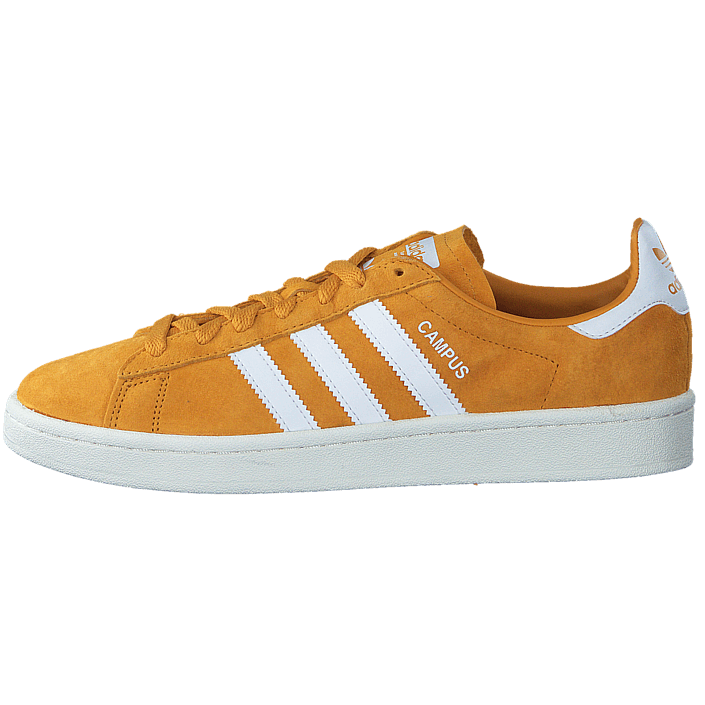
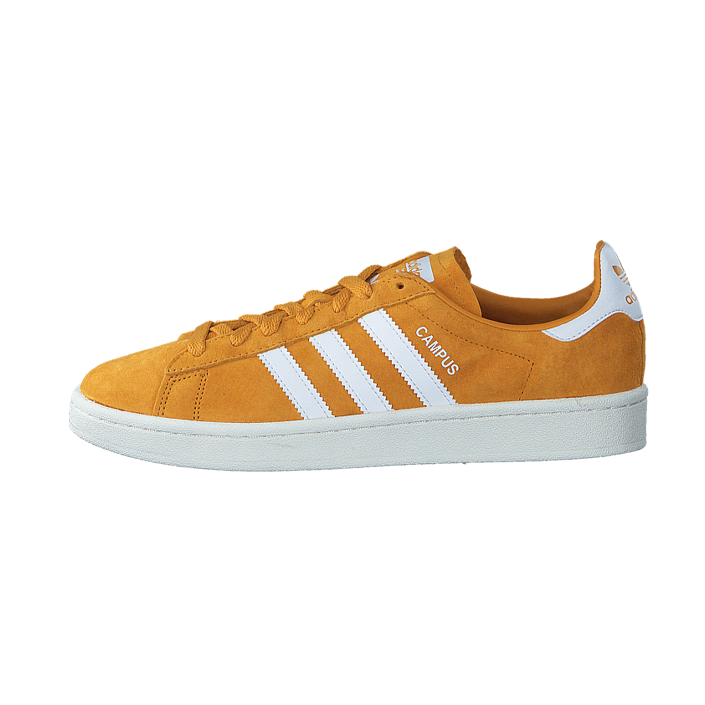
modal window

Changed region(s): [[0.0, 0.3121, 0.9986, 0.7177]]

diff --git a/index.html b/index.html
@@ -53,6 +53,7 @@
                                     move, laces that you’ll never need to tie again, and an odor-fighting copper thread
                                     lining.
                                 </p>
+
                                 <div class="main__page-buttons">
                                     <button class="main__page-button">
                                         <img src="img/bag.svg" alt="bag" class="main__page-button-img">Add To Cart
@@ -60,9 +61,12 @@
                                     <button id="myBtn" href="#" class="main__page-button">
                                         <img src="img/play.svg" alt="play" class="main__page-button-img">Watch
                                         Intro</button>
-                                    <div id="myModal" class="modal">
+
+
+
+                                    <div id="myModal" class="modal" data-modal="1">
                                         <div class="modal-content">
-                                            <span class="close">&times;</span>
+                                            <span id="close" class="close">&times;</span>
                                             <iframe width="860" height="515"
                                                 src="https://www.youtube.com/embed/geFi-ZpN2ZM"
                                                 title="YouTube video player" frameborder="0"
@@ -71,6 +75,7 @@
                                         </div>
                                     </div>
                                 </div>
+
                             </div>
                             <div id="main__page-swiper-item"><img src="img//sneaker1.png" alt="sneaker"></div>
                             <div class="main__page-content">
@@ -80,16 +85,17 @@
                                     move, laces that you’ll never need to tie again, and an odor-fighting copper thread
                                     lining.
                                 </p>
+
                                 <div class="main__page-buttons">
                                     <button class="main__page-button">
                                         <img src="img/bag.svg" alt="bag" class="main__page-button-img">Add To Cart
                                     </button>
-                                    <button id="myBtn" href="#" class="main__page-button">
+                                    <button id="myBtn2" href="#" class="main__page-button">
                                         <img src="img/play.svg" alt="play" class="main__page-button-img">Watch
                                         Intro</button>
-                                    <div id="myModal" class="modal">
+                                    <div id="myModal2" class="modal" data-modal="2">
                                         <div class="modal-content">
-                                            <span class="close">&times;</span>
+                                            <span id="close" class="close2">&times;</span>
                                             <iframe width="860" height="515"
                                                 src="https://www.youtube.com/embed/geFi-ZpN2ZM"
                                                 title="YouTube video player" frameborder="0"
@@ -98,8 +104,10 @@
                                         </div>
                                     </div>
                                 </div>
+
                             </div>
                             <div id="main__page-swiper-item"><img src="img/campus.png" alt="sneaker"></div>
+
                             <div class="main__page-content">
                                 <p class="main__page-description">The best looks; Top Comfort</p>
                                 <h1 class="main__page-title">Comfy Maxer</h1>
@@ -107,16 +115,17 @@
                                     move, laces that you’ll never need to tie again, and an odor-fighting copper thread
                                     lining.
                                 </p>
+
                                 <div class="main__page-buttons">
                                     <button class="main__page-button">
                                         <img src="img/bag.svg" alt="bag" class="main__page-button-img">Add To Cart
                                     </button>
-                                    <button id="myBtn" href="#" class="main__page-button">
+                                    <button id="myBtn3" href="#" class="main__page-button">
                                         <img src="img/play.svg" alt="play" class="main__page-button-img">Watch
                                         Intro</button>
-                                    <div id="myModal" class="modal">
+                                    <div id="myModal3" class="modal" data-modal="3">
                                         <div class="modal-content">
-                                            <span class="close">&times;</span>
+                                            <span id="close" class="close3">&times;</span>
                                             <iframe width="860" height="515"
                                                 src="https://www.youtube.com/embed/geFi-ZpN2ZM"
                                                 title="YouTube video player" frameborder="0"
@@ -125,8 +134,10 @@
                                         </div>
                                     </div>
                                 </div>
+
                             </div>
                             <div id="main__page-swiper-item"><img src="img/blue.png" alt="sneaker"></div>
+
                             <div class="main__page-content">
                                 <p class="main__page-description">The best looks; Top Comfort</p>
                                 <h1 class="main__page-title">Comfy Maxer</h1>
@@ -134,16 +145,17 @@
                                     move, laces that you’ll never need to tie again, and an odor-fighting copper thread
                                     lining.
                                 </p>
+
                                 <div class="main__page-buttons">
                                     <button class="main__page-button">
                                         <img src="img/bag.svg" alt="bag" class="main__page-button-img">Add To Cart
                                     </button>
-                                    <button id="myBtn" href="#" class="main__page-button">
+                                    <button id="myBtn4" href="#" class="main__page-button">
                                         <img src="img/play.svg" alt="play" class="main__page-button-img">Watch
                                         Intro</button>
-                                    <div id="myModal" class="modal">
+                                    <div id="myModal4" class="modal" data-modal="4">
                                         <div class="modal-content">
-                                            <span class="close">&times;</span>
+                                            <span id="close" class="close4">&times;</span>
                                             <iframe width="860" height="515"
                                                 src="https://www.youtube.com/embed/geFi-ZpN2ZM"
                                                 title="YouTube video player" frameborder="0"

diff --git a/style.css b/style.css
@@ -132,7 +132,7 @@ body {
   border-right: 1px solid #e9e9e9;
   height: 126%;
   position: absolute;
-  right: 15%;
+  right: 17%;
 }
 .main__page::after {
   content: "";
@@ -215,7 +215,7 @@ body {
       -ms-flex-pack: start;
           justify-content: start;
   margin-top: 49px;
-  z-index: 2;
+  z-index: 3;
 }
 .main__page-button {
   cursor: pointer;
@@ -229,7 +229,7 @@ body {
   font-size: 15px;
   line-height: 18px;
   color: #030304;
-  z-index: 2;
+  z-index: 3;
 }
 .main__page-button:hover {
   background-color: #505054;
@@ -585,7 +585,7 @@ body {
   display: flex;
   position: fixed;
   top: 50vmin;
-  right: -3%;
+  right: 0.3em;
   -webkit-transform: rotate(270deg);
           transform: rotate(270deg);
 }
@@ -672,12 +672,12 @@ body {
 .main__page-swiper {
   position: absolute;
   top: 14em;
-  right: 19%;
+  right: 22%;
   overflow-y: scroll;
   scroll-behavior: smooth;
   -ms-scroll-snap-type: y proximity;
       scroll-snap-type: y proximity;
-  width: 55em;
+  width: 57em;
   height: 41rem;
   z-index: 3;
 }
@@ -685,8 +685,8 @@ body {
   display: none;
 }
 .main__page-swiper #main__page-swiper-item {
-  margin-top: -21em;
-  margin-left: 7em;
+  margin-top: -21.5em;
+  margin-left: 10.5em;
   scroll-snap-align: start;
   display: -webkit-box;
   display: -ms-flexbox;
@@ -698,7 +698,7 @@ body {
   -webkit-box-pack: center;
       -ms-flex-pack: center;
           justify-content: center;
-  width: 92%;
+  width: 88%;
 }
 @media screen and (max-width: 1000px) {
   .main__page-swiper #main__page-swiper-item {
@@ -784,7 +784,7 @@ body {
 .modal {
   display: none;
   position: fixed;
-  z-index: 1;
+  z-index: 3;
   left: 25%;
   top: 10%;
   width: 100%;
@@ -817,13 +817,13 @@ iframe {
     height: 30vh;
   }
 }
-.close {
+#close {
   position: relative;
   left: auto;
   font-size: 70px;
   cursor: pointer;
 }
-.close:hover {
+#close:hover {
   color: #ecca7b;
   -webkit-transition: ease-in-out 0.5s;
   transition: ease-in-out 0.5s;

diff --git a/style.scss b/style.scss
@@ -126,7 +126,7 @@ body {
         border-right: 1px solid #e9e9e9;
         height: 126%;
         position: absolute;
-        right: 15%;
+        right: 17%;
     }
 
     &__page::after {
@@ -210,7 +210,7 @@ body {
         display: flex;
         justify-content: start;
         margin-top: 49px;
-        z-index: 2;
+        z-index: 3;
     }
 
     &__page-button {
@@ -225,7 +225,7 @@ body {
         font-size: 15px;
         line-height: 18px;
         color: $buttons;
-        z-index: 2;
+        z-index: 3;
 
         &:hover {
             background-color: #505054;
@@ -545,7 +545,7 @@ body {
     display: flex;
     position: fixed;
     top: 50vmin;
-    right: -3%;
+    right:0.3em;
     transform: rotate(270deg);
 
     &__items {
@@ -627,25 +627,24 @@ body {
 .main__page-swiper {
     position: absolute;
     top: 14em;
-    right: 19%;
+    right: 22%;
     overflow-y: scroll;
     scroll-behavior: smooth;
     scroll-snap-type: y proximity;
-    width: 55em;
+    width: 57em;
     height: 41rem;
     z-index: 3;
     &::-webkit-scrollbar {
         display: none;
     }
     #main__page-swiper-item {
-        margin-top: -21em;
-        margin-left: 7em;
+        margin-top: -21.5em;
+        margin-left: 10.5em;
         scroll-snap-align: start;
         display: flex;
         flex-flow: column;
         justify-content: center;
-        width: 92%;
-       
+        width: 88%;
     }
     @media screen and (max-width: 1000px) {
         #main__page-swiper-item {
@@ -734,7 +733,7 @@ body {
 .modal {
     display: none;
     position: fixed;
-    z-index: 1;
+    z-index: 3;
     left: 25%;
     top: 10%;
     width: 100%;
@@ -764,7 +763,7 @@ iframe {
         height: 30vh;
     }
 }
-.close {
+#close {
     position: relative;
     left: auto;
     font-size: 70px;

diff --git a/js/index.js b/js/index.js
@@ -20,3 +20,59 @@ window.onclick = function (event) {
     modal.style.display = "none"
   }
 }
+
+let modal2 = document.getElementById('myModal2');
+let btn2 = document.getElementById('myBtn2');
+let span2 = document.getElementsByClassName("close2")[0];
+
+btn2.onclick = function () {
+  modal2.style.display = "block";
+}
+span2.onclick = function () {
+  modal2.style.display = "none";
+}
+
+window.onclick = function (event) {
+  if (event.target == modal2) {
+    modal2.style.display = "none"
+  }
+}
+
+
+
+let modal3 = document.getElementById('myModal3');
+let btn3 = document.getElementById('myBtn3');
+let span3 = document.getElementsByClassName("close3")[0];
+
+btn3.onclick = function () {
+  modal3.style.display = "block";
+}
+span3.onclick = function () {
+  modal3.style.display = "none";
+}
+
+window.onclick = function (event) {
+  if (event.target == modal3) {
+    modal3.style.display = "none"
+  }
+}
+
+let modal4 = document.getElementById('myModal4');
+let btn4 = document.getElementById('myBtn4');
+let span4 = document.getElementsByClassName("close4")[0];
+
+btn4.onclick = function () {
+  modal4.style.display = "block";
+}
+span4.onclick = function () {
+  modal4.style.display = "none";
+}
+
+window.onclick = function (event) {
+  if (event.target == modal4) {
+    modal4.style.display = "none"
+  }
+}
+
+
+
